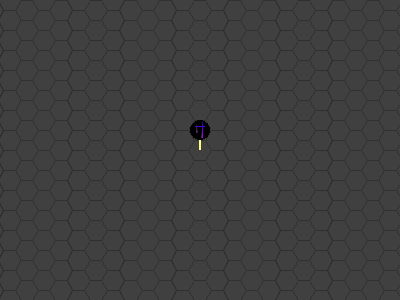
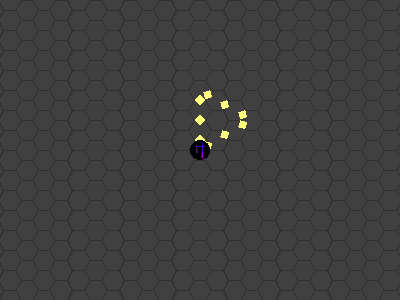
New arrow render type
yay
game seems to be working too

diff --git a/src/main/java/botmanager/frostbalance/render/MapRenderer.java b/src/main/java/botmanager/frostbalance/render/MapRenderer.java
@@ -1,6 +1,7 @@
 package botmanager.frostbalance.render;
 
 import botmanager.frostbalance.Nation;
+import botmanager.frostbalance.action.ActionQueue;
 import botmanager.frostbalance.grid.PlayerCharacter;
 import botmanager.frostbalance.grid.Tile;
 import botmanager.frostbalance.grid.TileObject;
@@ -17,7 +18,7 @@ import java.awt.image.BufferedImage;
 import java.io.File;
 import java.io.IOException;
 import java.util.Collection;
-import java.util.Iterator;
+import java.util.List;
 
 //TODO make the map renderer more sane.
 public class MapRenderer {
@@ -74,9 +75,7 @@ public class MapRenderer {
                 if (image == null) continue;
                 if (object instanceof PlayerCharacter) {
                     PlayerCharacter player = (PlayerCharacter) object;
-                    if (player.getDestination() != player.getLocation()) {
-                        renderMovementLine(g, player.getLocation().subtract(center), player.getDestination().subtract(center), player, size_factor);
-                    }
+                    renderMovementLine(g, player.getLocation().subtract(center), player, size_factor);
                 }
                 int width = image.getWidth();
                 BufferedImage circleBuffer = new BufferedImage(width, width, BufferedImage.TYPE_INT_ARGB);
@@ -139,27 +138,46 @@ public class MapRenderer {
      * The values put in here must already be offset, using the center as the origin.
      * @param g
      * @param location
-     * @param destination
      * @param size_factor
      */
-    private static void renderMovementLine(Graphics2D g, Hex location, Hex destination, PlayerCharacter playerCharacter, double size_factor) {
-        g.setStroke(new BasicStroke(2.0f, BasicStroke.CAP_BUTT, BasicStroke.JOIN_BEVEL));
+    private static void renderMovementLine(Graphics2D g, Hex location, PlayerCharacter playerCharacter, double size_factor) {
+        g.setStroke(new BasicStroke(0.0f, BasicStroke.CAP_BUTT, BasicStroke.JOIN_BEVEL));
         Color color;
         if (playerCharacter.getNation() != null) {
             color = playerCharacter.getNation().getColor();
         } else color = Color.GRAY;
         g.setColor(new Color(Math.max(128, color.getRed()), Math.max(128, color.getGreen()), Math.max(128, color.getBlue())));
         Hex offset = Hex.origin();
-        System.out.println("Movement line: " + destination.subtract(location));
-        Iterator<Hex.Direction> instructions = destination.subtract(location).crawlDirections();
-        while (instructions.hasNext()) {
-            Hex.Direction nextDirection = instructions.next();
-            g.drawLine((int)(location.add(offset).drawX() * size_factor) + DEFAULT_WIDTH/2,
-                    (int)(location.add(offset).drawY() * size_factor) + DEFAULT_HEIGHT/2,
-                    (int)(location.add(offset.move(nextDirection)).drawX() * size_factor) + DEFAULT_WIDTH/2,
-                    (int)(location.add(offset.move(nextDirection)).drawY() * size_factor) + DEFAULT_HEIGHT/2);
+        ActionQueue simulation = playerCharacter.getActionQueue().simulator();
+        List<Hex.Direction> instructions = simulation.moves();
+        for (Hex.Direction nextDirection : instructions) {
+            //g.drawLine((int)(location.add(offset).drawX() * size_factor) + DEFAULT_WIDTH/2,
+            //        (int)(location.add(offset).drawY() * size_factor) + DEFAULT_HEIGHT/2,
+            //        (int)(location.add(offset.move(nextDirection)).drawX() * size_factor) + DEFAULT_WIDTH/2,
+            //        (int)(location.add(offset.move(nextDirection)).drawY() * size_factor) + DEFAULT_HEIGHT/2);
+            g.fillPolygon(getMovementArrow(location.add(offset), nextDirection, size_factor));
             offset = offset.move(nextDirection);
         }
+    }
+
+    private static Polygon getMovementArrow(Hex location, Hex.Direction direction, double size_factor) {
+
+        final double TRIANGLE_SIZE = 4 * Math.sqrt(2);
+
+        Polygon triangle = new Polygon();
+        double angle = direction.angle();
+        int baseX = (int)((location.drawX() + Hex.X_SCALE/2 * Math.cos(angle)) * size_factor);
+        int baseY = (int)((location.drawY() + Hex.Y_SCALE/2 * Math.sin(angle)) * size_factor);
+        triangle.addPoint((int) (baseX + TRIANGLE_SIZE * Math.cos(angle) + DEFAULT_WIDTH/2),
+                (int) (baseY + TRIANGLE_SIZE * Math.sin(angle) + DEFAULT_HEIGHT/2));
+        triangle.addPoint(
+                (int) (baseX + TRIANGLE_SIZE * Math.cos(angle + Math.PI/2) + DEFAULT_WIDTH/2),
+                (int) (baseY + TRIANGLE_SIZE * Math.sin(angle + Math.PI/2) + DEFAULT_HEIGHT/2));
+        triangle.addPoint(
+                (int) (baseX + TRIANGLE_SIZE * Math.cos(angle - Math.PI/2) + DEFAULT_WIDTH/2),
+                (int) (baseY + TRIANGLE_SIZE * Math.sin(angle - Math.PI/2) + DEFAULT_HEIGHT/2));
+        return triangle;
+
     }
 
     private static Polygon getHex(Hex hex, double size_factor) {

diff --git a/src/main/java/botmanager/frostbalance/action/ActionQueue.java b/src/main/java/botmanager/frostbalance/action/ActionQueue.java
@@ -1,11 +1,17 @@
 package botmanager.frostbalance.action;
 
+import botmanager.frostbalance.action.routine.MoveToRoutine;
+import botmanager.frostbalance.action.routine.RepeatRoutine;
 import botmanager.frostbalance.action.routine.Routine;
+import botmanager.frostbalance.grid.coordinate.Hex;
 
+import java.util.ArrayList;
 import java.util.Iterator;
-import java.util.concurrent.ArrayBlockingQueue;
+import java.util.List;
+import java.util.concurrent.LinkedBlockingQueue;
+import java.util.stream.Collectors;
 
-public class ActionQueue extends ArrayBlockingQueue<QueueStep> {
+public class ActionQueue extends LinkedBlockingQueue<QueueStep> {
 
     public ActionQueue() {
         super(11);
@@ -44,7 +50,29 @@ public class ActionQueue extends ArrayBlockingQueue<QueueStep> {
             QueueStep step = iterator.next();
             simulation.add(step.simulate());
         }
-        simulation.addAll(this);
         return simulation;
+    }
+
+    /**
+     * Destroys the current simulation (without firing anything) to get a list of moves.
+     * @return A list of moves.
+     */
+    public List<Hex.Direction> moves() {
+        List<Hex.Direction> directionChanges = new ArrayList<>();
+        while (!isEmpty()) {
+            QueueStep queueStep = pollBase();
+            if (queueStep instanceof MoveAction) {
+                directionChanges.add(((MoveAction) queueStep).getDirection());
+            } else if (queueStep instanceof MoveToRoutine) {
+                directionChanges.addAll(((MoveToRoutine) queueStep).peekAtAllActions().stream().map(MoveAction::getDirection).collect(Collectors.toList()));
+            } else if (queueStep instanceof RepeatRoutine && ((RepeatRoutine) queueStep).getAction() instanceof MoveAction) {
+                for (int i = 0; i < ((RepeatRoutine) queueStep).getAmount(); i++) {
+                    directionChanges.add(((MoveAction) ((RepeatRoutine) queueStep).getAction()).getDirection());
+                }
+            } else {
+                remove(queueStep);
+            }
+        }
+        return directionChanges;
     }
 }

diff --git a/src/main/java/botmanager/frostbalance/menu/MapMenu.java b/src/main/java/botmanager/frostbalance/menu/MapMenu.java
@@ -13,6 +13,8 @@ import botmanager.frostbalance.render.MapRenderer;
 import net.dv8tion.jda.api.EmbedBuilder;
 import org.jetbrains.annotations.NotNull;
 
+import java.util.Locale;
+
 public class MapMenu extends Menu {
 
     private WorldMap map;
@@ -136,7 +138,7 @@ public class MapMenu extends Menu {
             @Override
             public void hookEvent(@NotNull MessageContext hookContext) {
                 String[] args = hookContext.getMessage().getContentRaw().split(" ");
-                Hex.Direction direction = Hex.Direction.valueOf(Hex.Direction.class, args[0].toUpperCase());
+                Hex.Direction direction = Hex.Direction.valueOf(Hex.Direction.class, args[0].toUpperCase(Locale.ROOT));
                 int amount = Integer.parseInt(args[1]);
                 move(direction, amount);
                 updateMessage();
@@ -146,12 +148,13 @@ public class MapMenu extends Menu {
             public boolean isValid(@NotNull MessageContext hookContext) {
                 String[] directionNames = new String[Hex.Direction.values().length];
                 for (int i = 0; i < Hex.Direction.values().length; i++) {
-                    directionNames[i] = "(" + Hex.Direction.values()[i].name().toLowerCase() + ")";
+                    directionNames[i] = "(" + Hex.Direction.values()[i].name().toUpperCase() + ")";
                 }
                 String pattern = "(" + String.join("|", directionNames) + ") [0-9]{1,3}";
                 System.out.println(pattern);
-                System.out.println(hookContext.getMessage().getContentRaw());
-                return hookContext.getMessage().getContentRaw().matches(pattern);
+                String content = hookContext.getMessage().getContentRaw().toUpperCase();
+                System.out.println(content);
+                return content.matches(pattern);
             }
         });
 

diff --git a/src/main/java/botmanager/frostbalance/action/routine/MoveToRoutine.java b/src/main/java/botmanager/frostbalance/action/routine/MoveToRoutine.java
@@ -5,7 +5,6 @@ import botmanager.frostbalance.action.ActionQueue;
 import botmanager.frostbalance.action.MoveAction;
 import botmanager.frostbalance.action.QueueStep;
 import botmanager.frostbalance.grid.PlayerCharacter;
-import botmanager.frostbalance.grid.TileObject;
 import botmanager.frostbalance.grid.coordinate.Hex;
 
 import java.util.Iterator;
@@ -34,18 +33,17 @@ public class MoveToRoutine extends Routine {
 
     /**
      * Guesses what the actions of this routine will be based on the state of the mobile.
-     * @param character The character to do the routine on
      * @return True if the routine completed; false if actions were already queued
      */
-    public Queue<Action> peekAtAllActions(TileObject character) {
+    public Queue<MoveAction> peekAtAllActions() {
 
-        Queue<Action> actions = new PriorityQueue<>();
+        Queue<MoveAction> actions = new PriorityQueue<>();
 
-        Hex location = character.getLocation();
+        Hex location = mobile.getLocation();
 
-        if (!character.getActionQueue().isEmpty()) {
+        if (!mobile.getActionQueue().isEmpty()) {
             //TODO add simulation
-            ActionQueue queue = character.getActionQueue().simulator();
+            ActionQueue queue = mobile.getActionQueue().simulator();
             while (!queue.isEmpty()) {
                 Action action = queue.poll();
                 if (action instanceof MoveAction) {

diff --git a/src/main/java/botmanager/frostbalance/grid/PlayerCharacter.java b/src/main/java/botmanager/frostbalance/grid/PlayerCharacter.java
@@ -120,15 +120,18 @@ public class PlayerCharacter extends TileObject {
     public Hex getDestination() {
         System.out.println("Getting destination");
         Hex destination = getLocation();
-        ActionQueue simulation = actionQueue.simulator();
+        ActionQueue simulation = getActionQueue().simulator();
         while (!simulation.isEmpty()) {
             //FIXME get the destination without freezing!!
             QueueStep step = simulation.pollBase();
             if (step instanceof MoveAction) {
+                System.out.println("Moving once");
                 destination = destination.move(((MoveAction) step).getDirection());
             } else if (step instanceof MoveToRoutine) {
+                System.out.println("Moving to destination");
                 destination = ((MoveToRoutine) step).getDestination();
             } else if (step instanceof RepeatRoutine && ((RepeatRoutine) step).getAction() instanceof MoveAction) {
+                System.out.println("Moving n times: " + ((RepeatRoutine) step).getAmount());
                 destination = destination.move(((MoveAction) ((RepeatRoutine) step).getAction()).getDirection(), ((RepeatRoutine) step).getAmount());
             }
         }

diff --git a/src/main/java/botmanager/frostbalance/action/routine/Routine.java b/src/main/java/botmanager/frostbalance/action/routine/Routine.java
@@ -4,7 +4,6 @@ import botmanager.frostbalance.action.Action;
 import botmanager.frostbalance.action.QueueStep;
 import botmanager.frostbalance.checks.FrostbalanceException;
 import botmanager.frostbalance.grid.PlayerCharacter;
-import botmanager.frostbalance.grid.TileObject;
 
 import java.util.Queue;
 
@@ -13,10 +12,10 @@ public abstract class Routine implements QueueStep {
     PlayerCharacter mobile;
 
     public Action pollAction() {
-        return peekAtAllActions(mobile).poll();
+        return peekAtAllActions().poll();
     }
 
-    public abstract Queue<Action> peekAtAllActions(TileObject character);
+    public abstract Queue<? extends Action> peekAtAllActions();
 
     @Override
     public int moveCost() {

diff --git a/src/main/java/botmanager/frostbalance/grid/coordinate/Hex.java b/src/main/java/botmanager/frostbalance/grid/coordinate/Hex.java
@@ -252,12 +252,21 @@ public class Hex {
     public enum Direction {
         NORTH(1), NORTHWEST(0), SOUTHWEST(5), SOUTH(4), SOUTHEAST(3), NORTHEAST(2);
 
-        int anglePart;
+        final int anglePart;
 
         Direction(int anglePart) {
             this.anglePart = anglePart;
         }
 
+        public double angle() {
+            return (anglePart - 2.5) * 2 * Math.PI / 6.0;
+        }
+
+        /**
+         * Gets a point on the edge opposite of this one.
+         * @param secondPoint
+         * @return An edge on a point opposite of this one
+         */
         public double xEdge(boolean secondPoint) {
             double anglePortion = anglePart;
             if (secondPoint) anglePortion += 1;

diff --git a/src/main/java/botmanager/frostbalance/action/routine/RepeatRoutine.java b/src/main/java/botmanager/frostbalance/action/routine/RepeatRoutine.java
@@ -2,7 +2,6 @@ package botmanager.frostbalance.action.routine;
 
 import botmanager.frostbalance.action.Action;
 import botmanager.frostbalance.action.QueueStep;
-import botmanager.frostbalance.grid.TileObject;
 
 import java.util.PriorityQueue;
 import java.util.Queue;
@@ -21,12 +20,12 @@ public class RepeatRoutine extends Routine {
 
     public Action pollAction() {
         amount--;
-        if (amount >= 0) return null;
+        if (amount <= 0) return null;
         else return action;
     }
 
     @Override
-    public Queue<Action> peekAtAllActions(TileObject character) {
+    public Queue<Action> peekAtAllActions() {
 
         Queue<Action> queue = new PriorityQueue<>();
 
